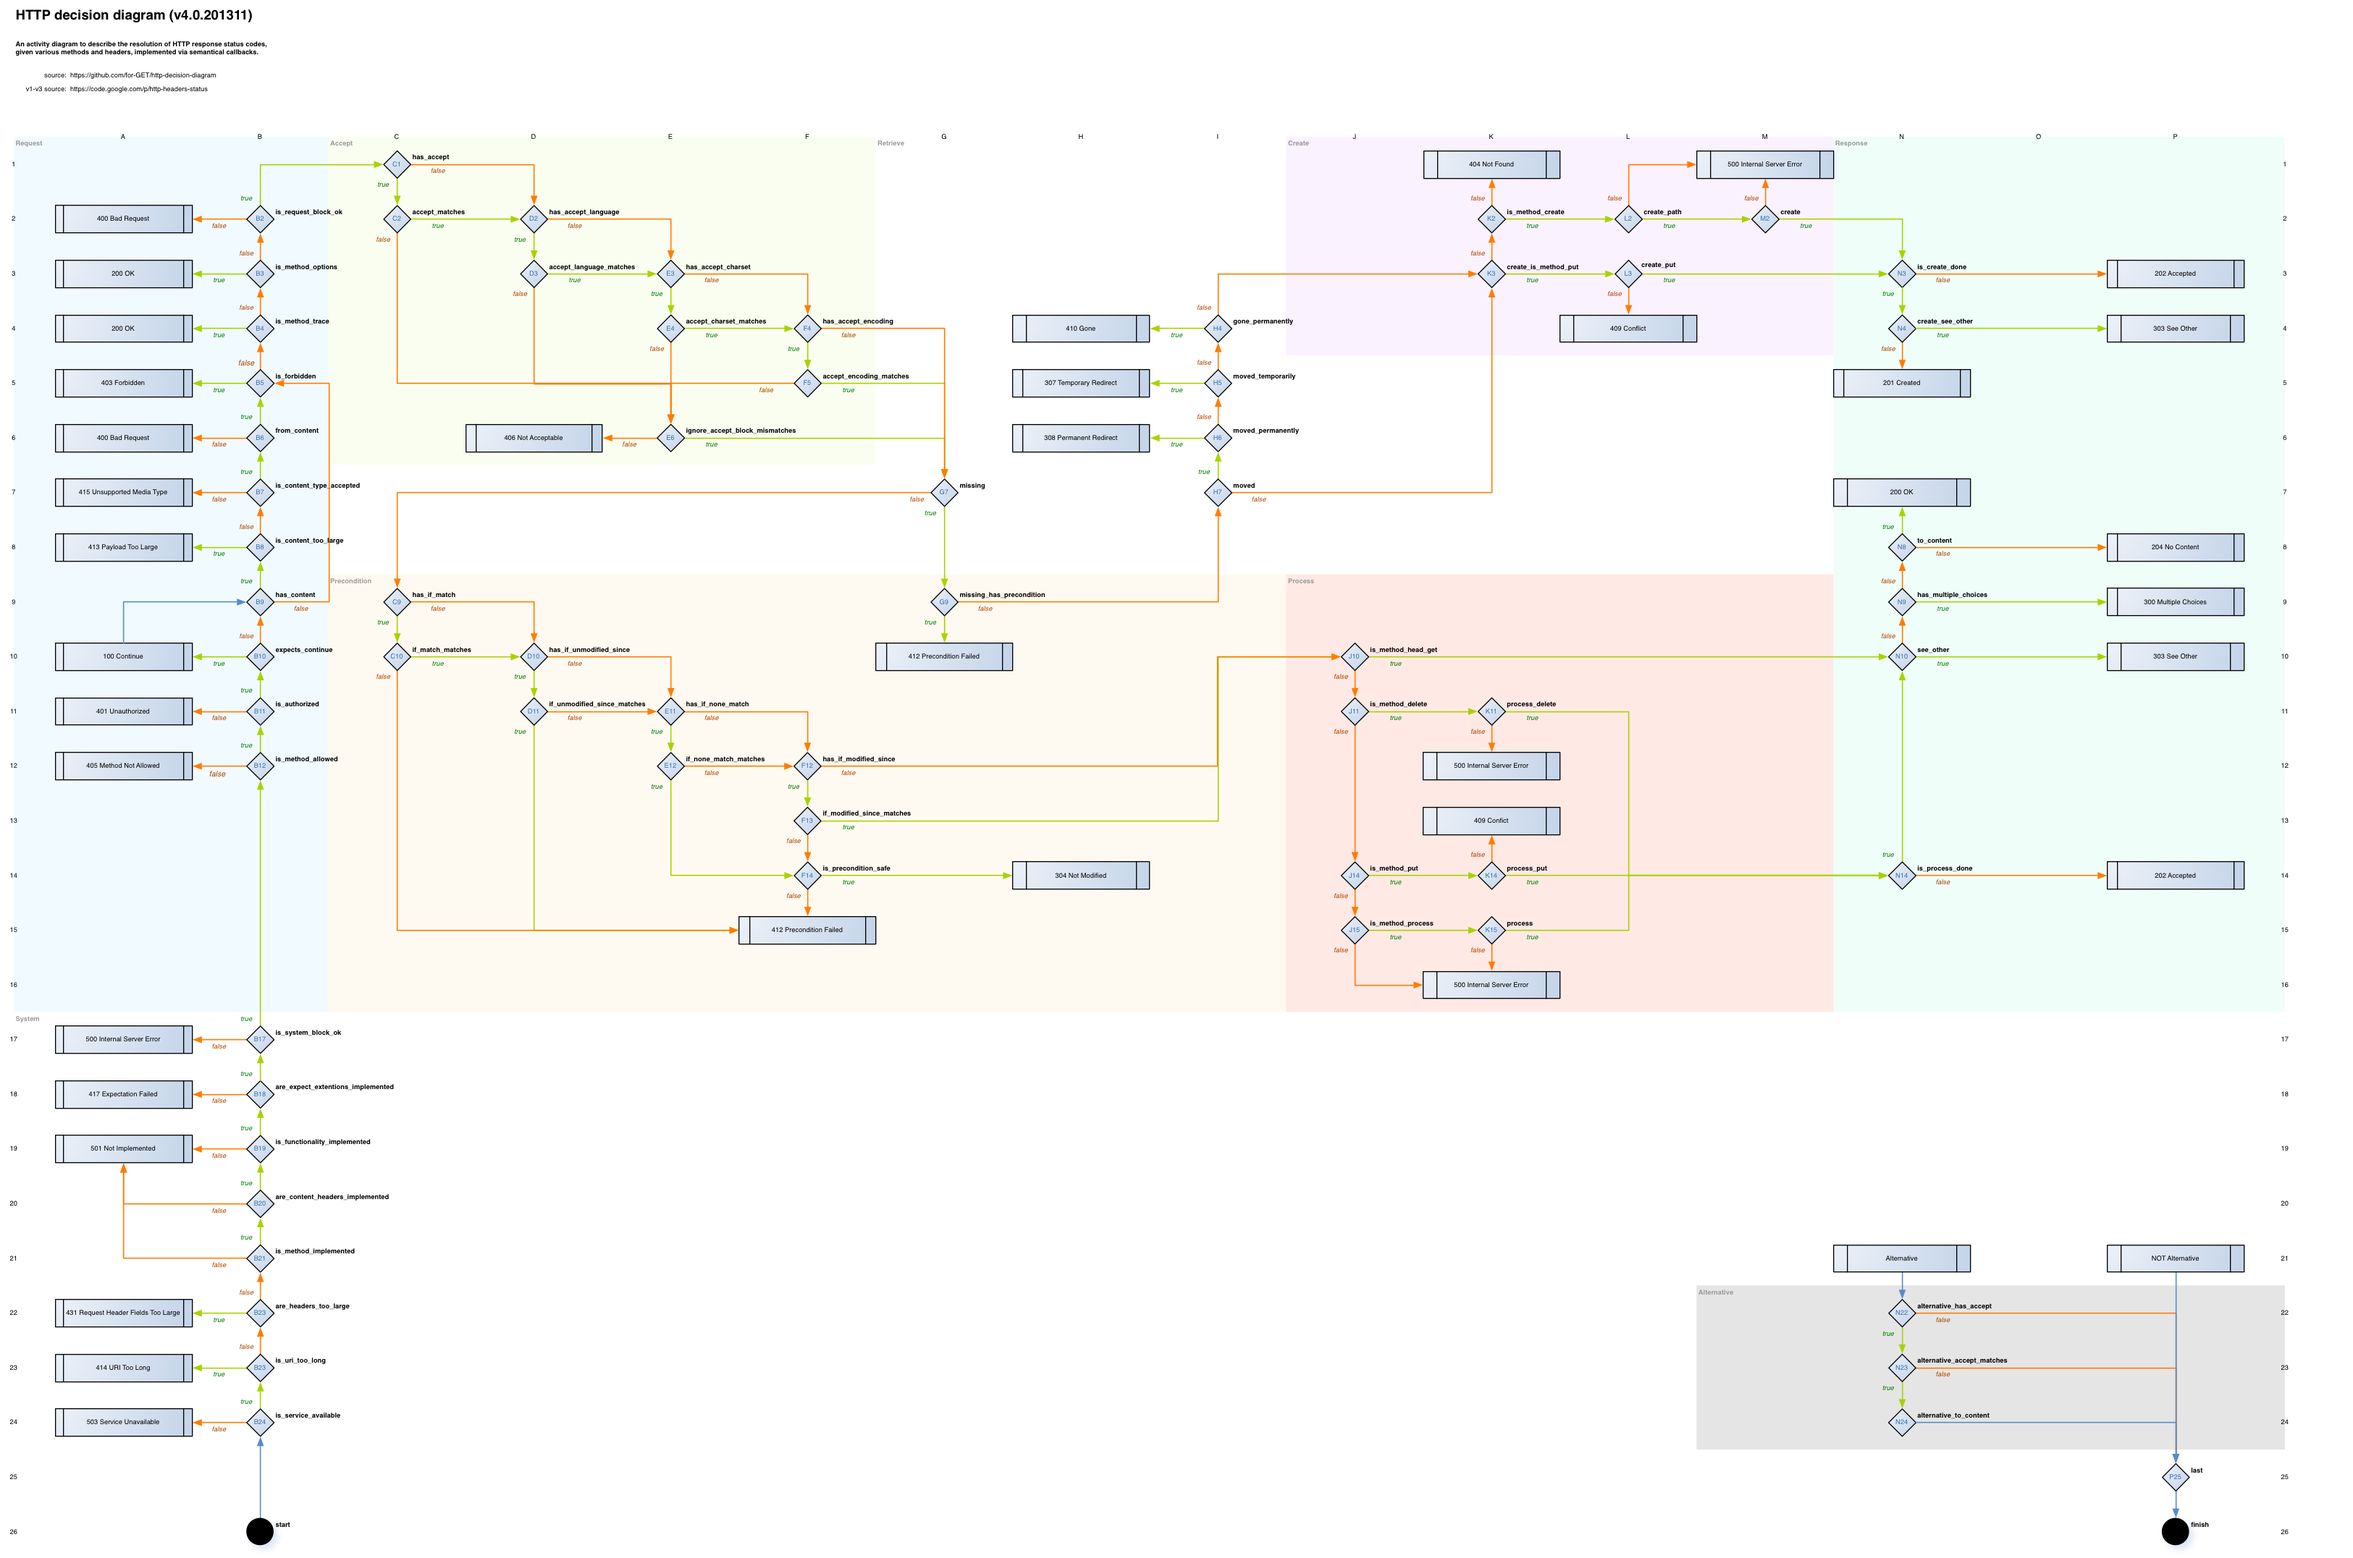
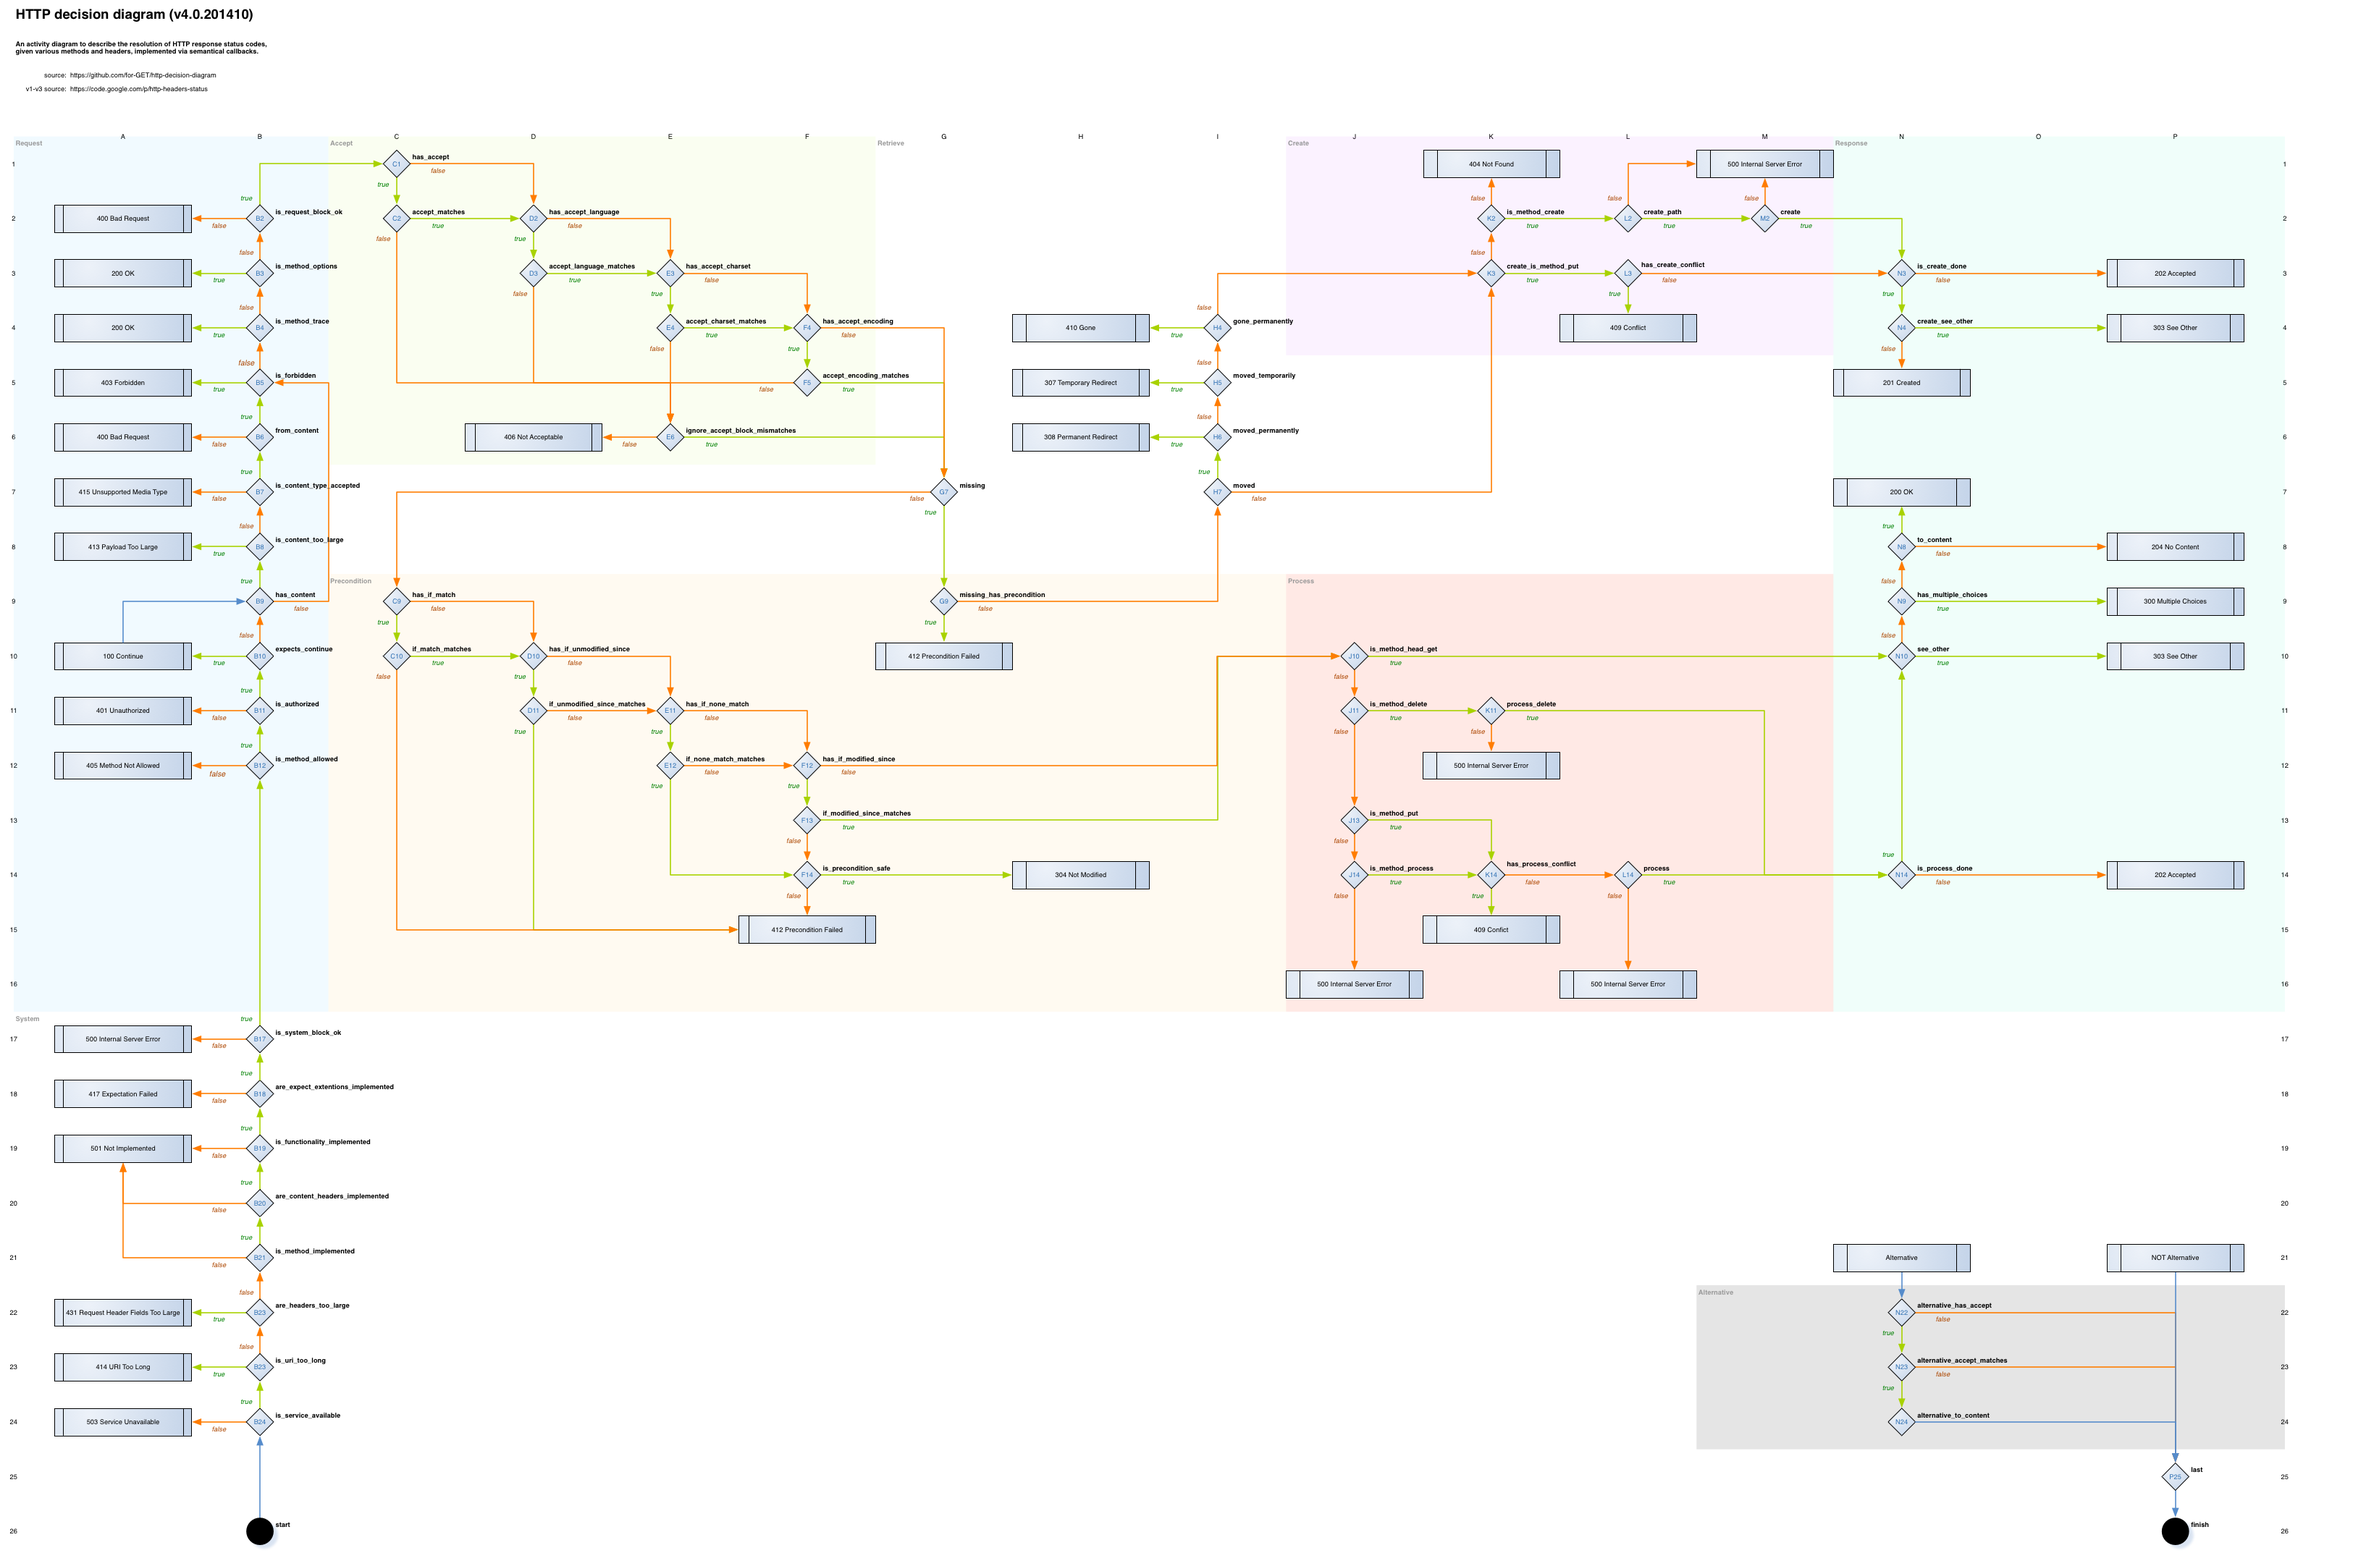
add conflict check for patch&all process methods. ref #36

diff --git a/doc/README_process.md b/doc/README_process.md
@@ -20,12 +20,12 @@ J10 | [`method :var`](#method-var) | *Method* | `Transaction.request.method`
 J11 | [`method :var`](#method-var) | *Method* | `Transaction.request.method`
  | [`is_method_delete : in`](#is_method_delete--in) | T / F |
 K11 | [`process_delete :bin`](#process_delete-bin) | T / F | FALSE
-J14 | [`method :var`](#method-var) | *Method* | `Transaction.request.method`
+J13 | [`method :var`](#method-var) | *Method* | `Transaction.request.method`
  | [`is_method_put : in`](#is_method_put--in) | T / F |
-K14 | [`process_put :bin`](#process_put-bin) | T / F | FALSE
-J15 | [`method :var`](#method-var) | *Method* | `Transaction.request.method`
+K14 | [`has_process_conflict :bin`](#has_process_conflict-bin) | T / F | FALSE
+J14 | [`method :var`](#method-var) | *Method* | `Transaction.request.method`
  | [`process_methods :var`](#process_methods-var) | [ *Method* ] | [ POST<br>, PATCH<br>]
  | [`is_method_process : in`](#is_method_process--in) | T / F |
-K15 | [`process :bin`](#process-bin) | T / F | FALSE
+L14 | [`process :bin`](#process-bin) | T / F | FALSE
 
 > FIXME Explanations needed

diff --git a/doc/README_create.md b/doc/README_create.md
@@ -18,7 +18,7 @@
 K3 | [`method :var`](#method-var) | *Method* | `Transaction.request.method`
  | [`is_method_put : in`](#is_method_put--in) | T / F |
  | [`create_is_method_put : in`](#create_is_method_put--in) | T / F | `is_method_put : in`
-L3 | [`create_put :bin`](#create_put-bin) | T / F | `process_put`
+L3 | [`has_create_conflict :bin`](#has_create_conflict-bin) | T / F | `has_process_conflict`
 K2 | [`method :var`](#method-var) | *Method* | `Transaction.request.method`
  | [`create_methods :var`](#create_methods-var) | [ *Method* ] | [ POST<br>, PUT<br>]
  | [`is_method_create : in`](#is_method_create--in) | T / F |
